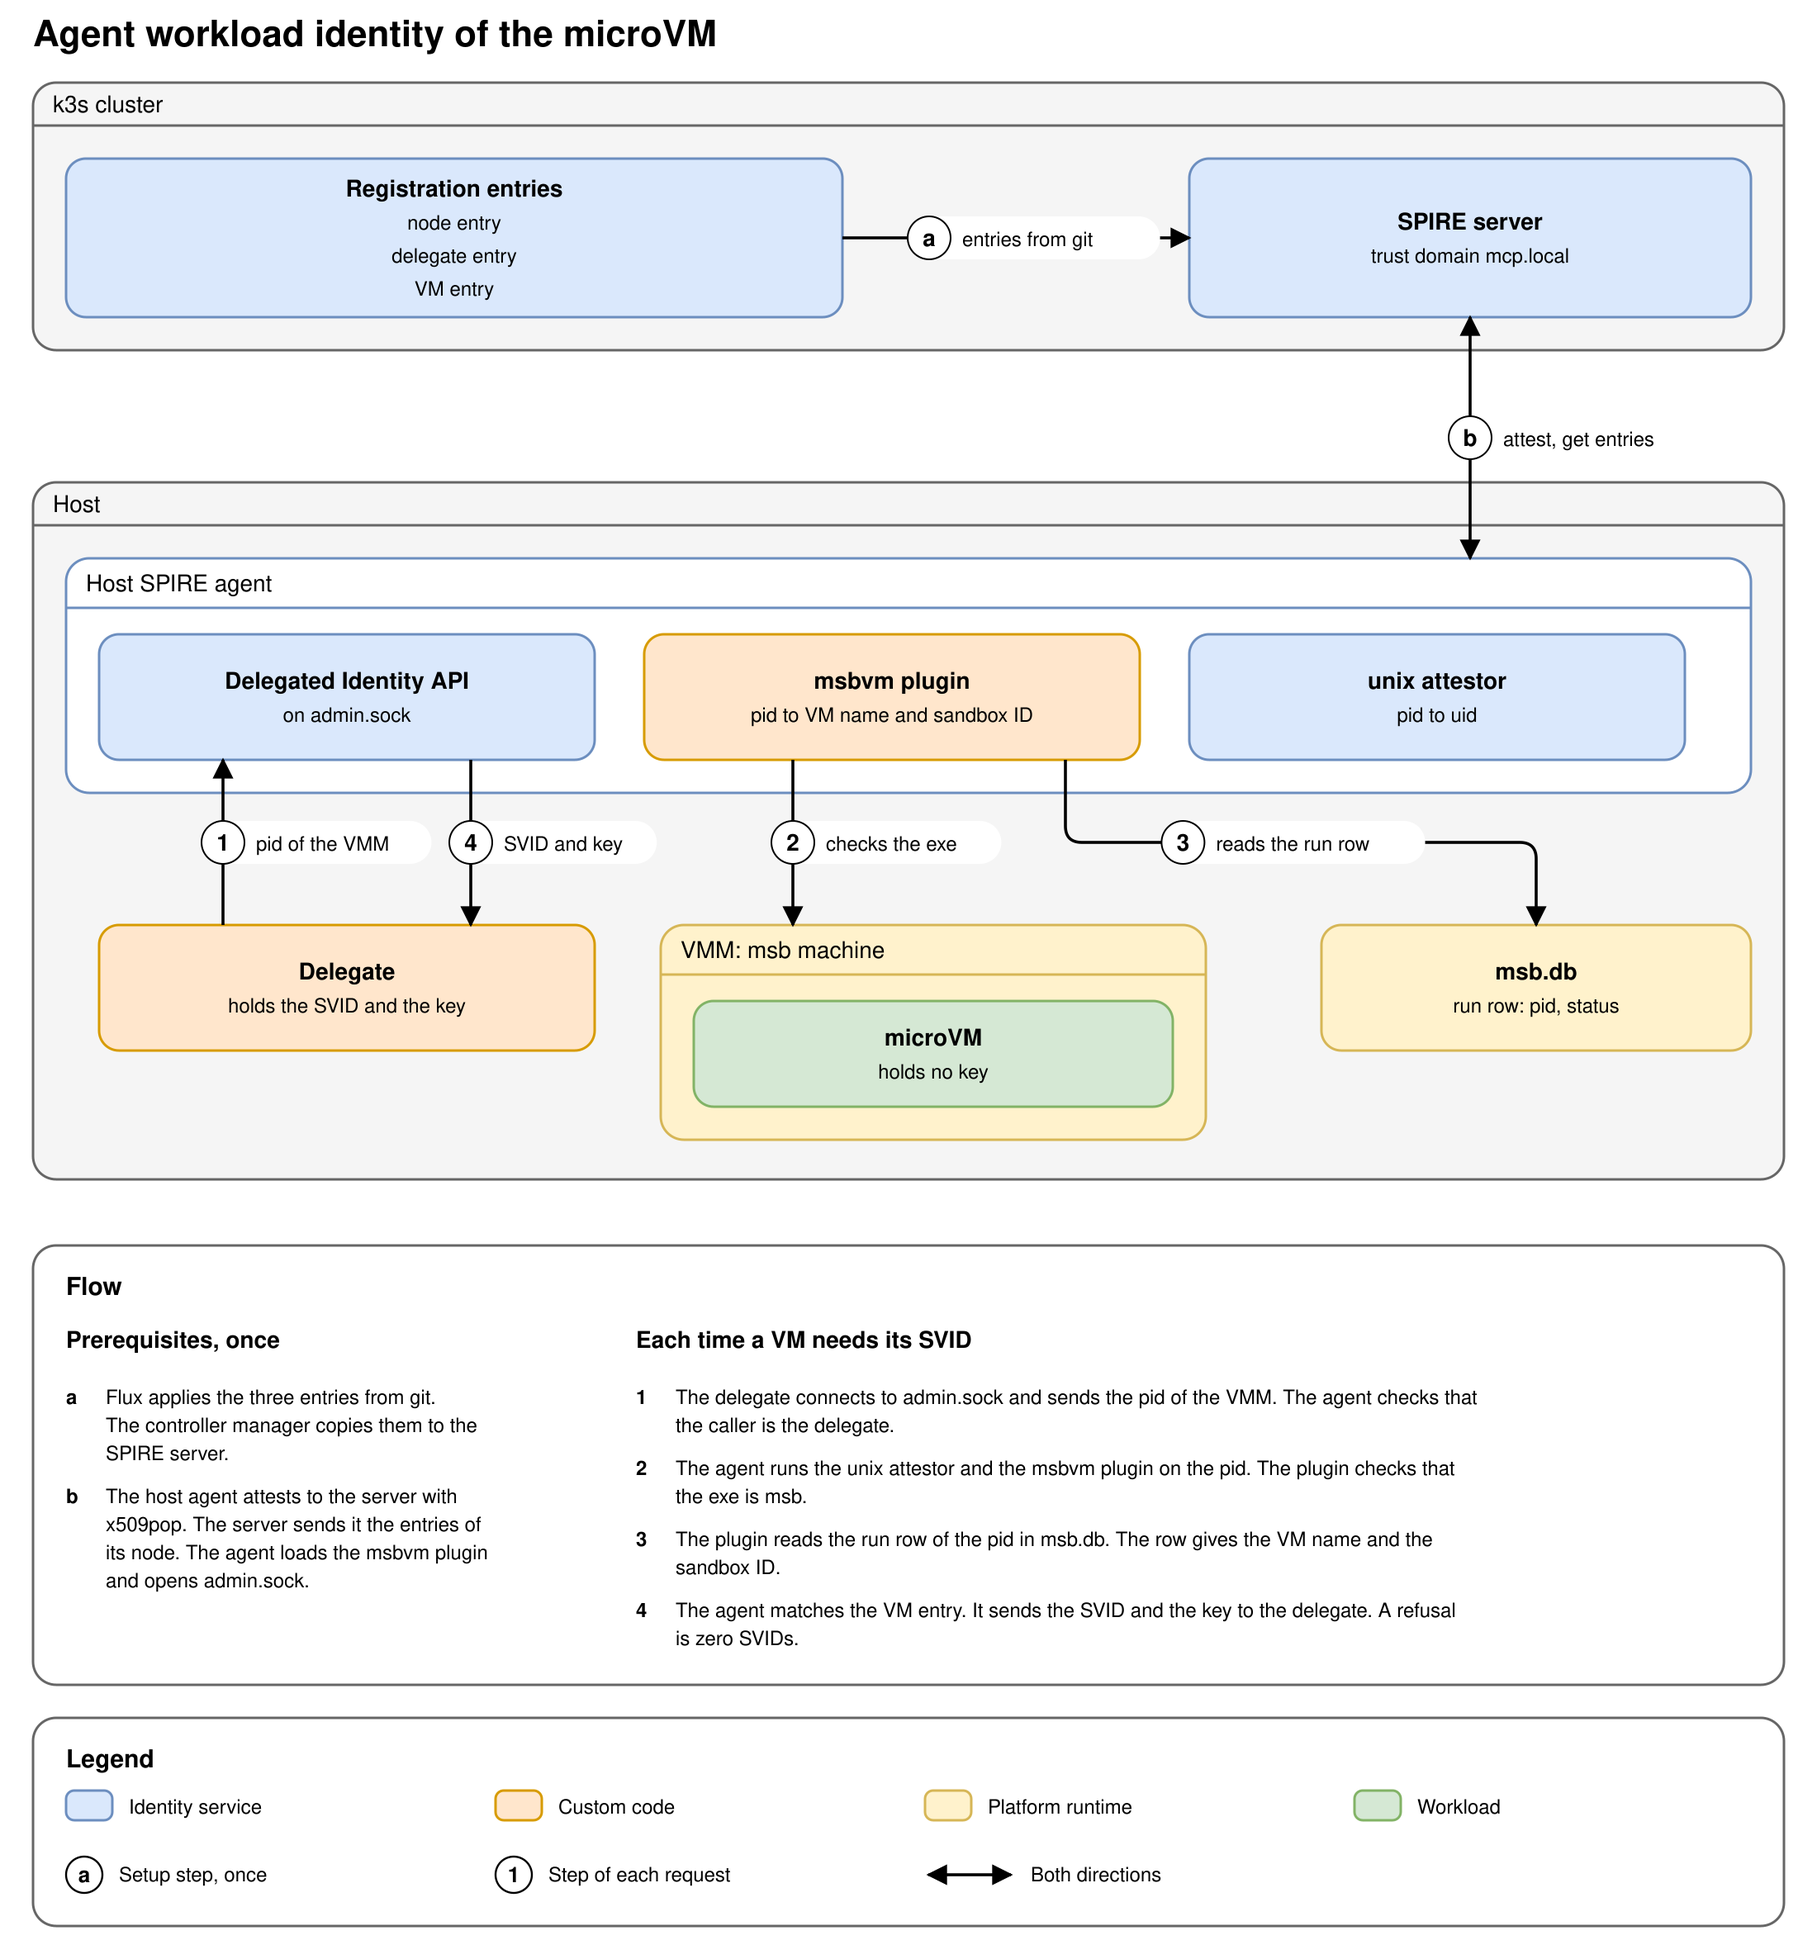
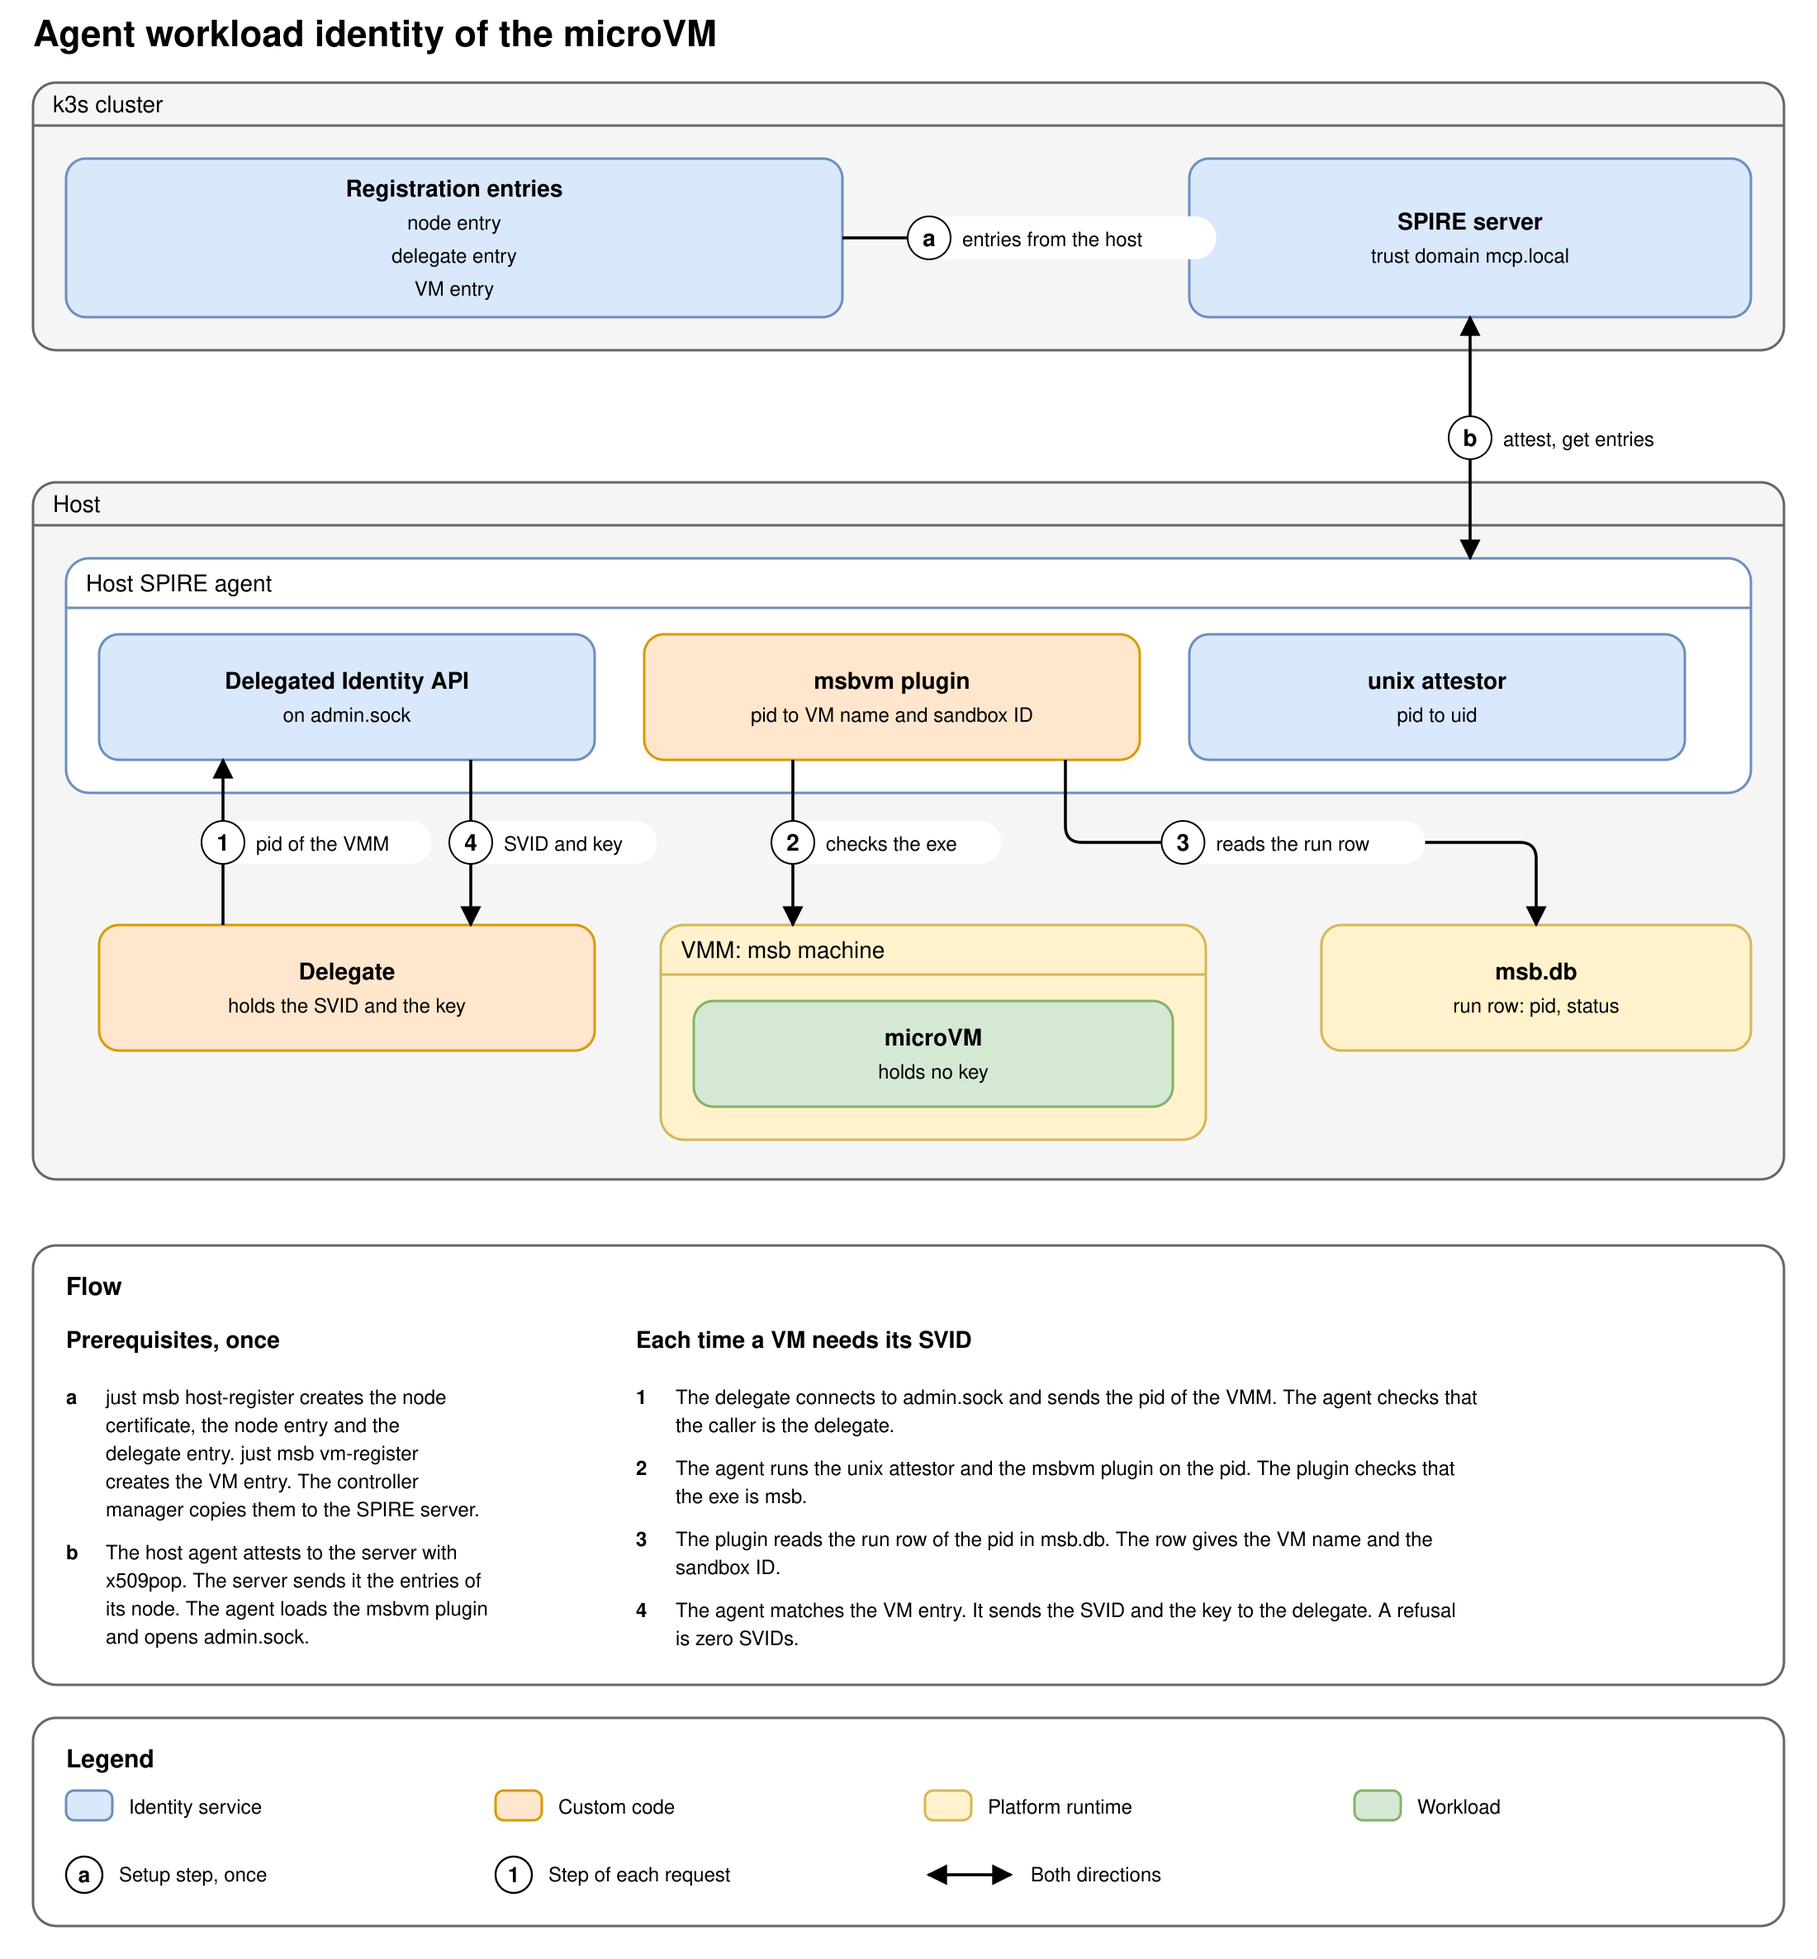
msb: register the host and the VMs under their own names
The node is the host, and its name is the host name of the machine, not the
name of a VM. just msb host-register creates the node certificate, the node
entry and the delegate entry from the host name. just msb vm-register creates
the entry of one VM from its name. The host applies the templates in
.msb/k3s/ with kubectl. Remove the static delegate and VM entries from the
spire addon. Add ADR 0002. Update the guide, the glossary, the READMEs and the
diagram.

Changed region(s): [[0.0618, 0.6863, 0.2782, 0.8423], [0.6491, 0.0936, 0.68, 0.1248]]

diff --git a/code/agent-workload-identity/docs/workload-attestation.md b/code/agent-workload-identity/docs/workload-attestation.md
@@ -4,7 +4,7 @@ This guide explains how a microVM gets its own SPIFFE ID. Read the [node attesta
 
 The lists and the diagrams are narrow on purpose. They read well in the GitHub mobile app.
 
-**Status.** The node attestation exists. The flow in this guide is a design. The spike proved it on the host with a throwaway SPIRE server. The `msbvm` plugin and the delegate are in this repo as code. The host agent config and the end-to-end test are not. [ADR 0001](adr/0001-delegated-identity-for-the-microvm.md) records the decision. This design replaces the Envoy design of [Zero trust: workload attestation](../../mcp-sandbox/part-3-mcp-guardrails/docs/zero-trust-workload-attestation.md).
+**Status.** The node attestation exists. The flow in this guide is a design. The spike proved it on the host with a throwaway SPIRE server. The `msbvm` plugin and the delegate are in this repo as code. The recipes that register the host and the VMs are in `.msb/`. The host agent config and the end-to-end test are not. [ADR 0001](adr/0001-delegated-identity-for-the-microvm.md) records the decision. This design replaces the Envoy design of [Zero trust: workload attestation](../../mcp-sandbox/part-3-mcp-guardrails/docs/zero-trust-workload-attestation.md).
 
 ## The idea
 
@@ -14,7 +14,7 @@ The lists and the diagrams are narrow on purpose. They read well in the GitHub m
 4. A plugin, `msbvm`, turns the pid into the VM name and the sandbox ID. It uses facts that `msb` records.
 5. The agent matches an entry. It gives the SVID and the key to the delegate. The VM never sees them.
 
-The ID has three parts: the node, the user and the VM. Example: `spiffe://mcp.local/node/sandbox-dev/user/raghav19/vm/<vm-name>`.
+The ID has three parts: the node, the user and the VM. The node is the host. Its name is the host name of the machine. Example: `spiffe://mcp.local/node/omarchy/user/raghav19/vm/<vm-name>`.
 
 ## The picture
 
@@ -27,9 +27,12 @@ The letters a and b are the prerequisites. They happen once. The numbers 1 to 4 
 In the cluster (k3s):
 
 - **SPIRE server.** It keeps the registration entries and issues the SVIDs. It checks the node with `x509pop`.
-- **Node entry `sandbox-node`.** It gives the attested node the ID `spiffe://mcp.local/node/sandbox-dev`. It is the parent of the other entries. It exists.
-- **Delegate entry.** It gives the delegate its own ID. It does not exist yet.
-- **VM entry.** It gives a VM its ID. Its selectors are `msbvm:name:<vm>` and `unix:uid:<uid>`. It does not exist yet.
+- **Node certificate of the host.** cert-manager makes it. The host agent attests with it. `just msb host-register` asks for it.
+- **Node entry.** It gives the attested host the ID `spiffe://mcp.local/node/<host-name>`. It is the parent of the other entries of this host. `just msb host-register` creates it.
+- **Delegate entry.** It gives the delegate its own ID. `just msb host-register` creates it.
+- **VM entry.** It gives a VM its ID. Its selectors are `msbvm:name:<vm>` and `unix:uid:<uid>`. `just msb vm-register` creates it.
+
+The agent in the VM has an older node entry, `sandbox-node`, with the ID `spiffe://mcp.local/node/sandbox-dev`. It stays until you retire that agent. See [ADR 0002](adr/0002-the-host-registers-its-entries-under-its-own-names.md).
 
 On the host:
 
@@ -48,7 +51,7 @@ The entries make a tree. The node entry is the parent of the other two. The agen
 
 ```mermaid
 flowchart TD
-    srv["SPIRE server"] -->|parent of| node["Node entry<br/>spiffe://mcp.local/node/sandbox-dev<br/>selectors: x509pop CN sandbox-dev<br/>and URI SAN github-id raghav19"]
+    srv["SPIRE server"] -->|parent of| node["Node entry<br/>spiffe://mcp.local/node/HOST-NAME<br/>selectors: x509pop CN HOST-NAME<br/>and URI SAN github-id raghav19"]
     node -->|parent of| del["Delegate entry<br/>selectors: unix uid<br/>and unix path of the delegate binary"]
     node -->|parent of| vm["VM entry<br/>ID ends with user/raghav19/vm/VM-NAME<br/>selectors: msbvm name VM-NAME<br/>and unix uid"]
     cfg["Agent config:<br/>authorized_delegates"] -->|lists the ID of| del
@@ -60,14 +63,16 @@ flowchart TD
 
 ```mermaid
 flowchart TD
-    a["Node key and certificate on the host"] --> b["Host agent attests with x509pop"]
-    b --> c["Server gives the node entry ID"]
-    d["Delegate entry and VM entry in git"] --> e["Flux applies them. The controller manager copies them to the server."]
-    c --> f["Agent gets the entries of its node and mints their SVIDs"]
+    a["just msb host-register:<br/>node certificate, node entry,<br/>delegate entry"] --> b["Node key and certificate<br/>on the host"]
+    b --> c["Host agent attests with x509pop"]
+    c --> d["Server gives the node entry ID"]
+    g["just msb vm-register:<br/>VM entry"] --> e["The controller manager copies<br/>the entries to the server"]
+    a --> e
+    d --> f["Agent gets the entries of its node<br/>and mints their SVIDs"]
     e --> f
 ```
 
-The host agent attests with `x509pop`, as the VM agent does today. Which certificate it uses is an open decision. The entries are objects in git, like the node entry. The agent mints the SVIDs of all entries of its node at start. The server is not involved when the delegate calls later.
+The host agent attests with `x509pop` and the node certificate that `host-register` made. The entries of the host and of the VMs are not in git. The host creates them with `kubectl`, from templates in `.msb/k3s/`, with the host name and the VM name. [ADR 0002](adr/0002-the-host-registers-its-entries-under-its-own-names.md) gives the reasons. The agent mints the SVIDs of all entries of its node at start. The server is not involved when the delegate calls later.
 
 The agent config loads the `msbvm` plugin with `plugin_cmd` and `plugin_checksum`. It also sets `admin_socket_path` and `authorized_delegates`. The admin socket must be in a different folder from the Workload API socket. The agent refuses to start otherwise.
 

diff --git a/code/agent-workload-identity/docs/adr/0002-the-host-registers-its-entries-under-its-own-names.md b/code/agent-workload-identity/docs/adr/0002-the-host-registers-its-entries-under-its-own-names.md
@@ -1,0 +1,30 @@
+---
+status: accepted
+---
+
+# The host registers its entries under its own names
+
+The node is the host that runs the microVMs. Its name in the SPIRE server is the host name of the machine, and not the name of a VM. The host creates its entries with `just msb host-register` and `just msb vm-register`, from templates, and not from files in git.
+
+## Decision
+
+- The node name is the host name in lower case. `MSB_NODE` in `.msb/justfile` holds it. A new host registers under its own name.
+- `just msb host-register` creates three objects: the node certificate of the host, the node entry, and the delegate entry. The node entry gives the host agent the ID `spiffe://mcp.local/node/<host-name>`.
+- `just msb vm-register` creates the entry of one VM. Its ID is `spiffe://mcp.local/node/<host-name>/user/<github-id>/vm/<vm-name>`. `just msb vm-unregister` and `just msb host-unregister` remove the objects.
+- The host applies the templates in `.msb/k3s/` with `kubectl`. Flux does not apply them. The spire-controller-manager copies the `ClusterStaticEntry` objects into the server.
+- The host agent has its own node certificate and its own node entry. The agent in the VM keeps its older certificate and its older node entry `sandbox-node`. The two agents do not share an ID.
+- The recipes accept only names with 1 to 40 characters: lower case letters, digits and `-`. The names go into Kubernetes names and into a SPIFFE path.
+
+## Considered options
+
+- **Entries in git, with the names written out.** This is simple for one host and one VM. A SPIFFE ID in an entry is a fixed string, and a selector has one exact value. So each new VM or host needs a change in git and a new published artifact. The entries would also carry the name of a VM before the VM exists.
+- **One entry for all VMs of a user, with no VM name.** The gateway could not tell the VMs apart. This loses the identity of each VM.
+- **The node entry with the VM name `sandbox-dev`.** This was the first design, from the time when the microVM itself was the node. The host is the node now. A node that has the name of a VM is confusing.
+
+## Consequences
+
+- The objects are outside the inventory of Flux. Flux does not prune them, and it does not show a difference if someone edits them. Remove them with the unregister recipes.
+- Only a person who has the kubeconfig of the host can register an identity. The VM has a read-only token, so a VM cannot register an identity for itself.
+- A new host name is a new node. If you rename the host, run `host-register` again. The old node entry stays until you run `host-unregister` under the old name.
+- `host-register` changes the cluster. Run it on purpose.
+- The part 3 guides about the node attestation describe the agent in the VM, with the node `sandbox-dev`. They stay true for that agent until you retire it.

diff --git a/code/agent-workload-identity/CONTEXT.md b/code/agent-workload-identity/CONTEXT.md
@@ -5,11 +5,11 @@ How an agent microVM gets its own SPIFFE ID while its private key stays on the h
 ## Language
 
 **Node**:
-The host that runs the microVM. The SPIRE server knows it through its node certificate.
+The host that runs the microVMs. Its name in the SPIRE server is the host name of the machine. The SPIRE server knows it through its node certificate.
 _Avoid_: machine, box
 
 **Node entry**:
-A registration entry that gives an attested node a fixed SPIFFE ID, for example `spiffe://mcp.local/node/sandbox-dev`. It is a record in the SPIRE server and is in no certificate.
+A registration entry that gives an attested node a fixed SPIFFE ID, for example `spiffe://mcp.local/node/omarchy`. It is a record in the SPIRE server and is in no certificate.
 _Avoid_: alias
 
 **microVM**:
@@ -25,5 +25,5 @@ A host program that the SPIRE agent trusts to ask for the SVID of a microVM. The
 _Avoid_: proxy, forwarder, launcher
 
 **Agent workload identity**:
-The SPIFFE ID of one agent microVM. It names the node, the user and the VM: `spiffe://mcp.local/node/sandbox-dev/user/raghav19/vm/<vm-name>`.
+The SPIFFE ID of one agent microVM. It names the node, the user and the VM: `spiffe://mcp.local/node/omarchy/user/raghav19/vm/<vm-name>`.
 _Avoid_: microVM identity, agent identity (Google uses it for a different identity), VM ID (the sandbox ID of `msb` is a different value)

diff --git a/code/agent-workload-identity/delegate/README.md b/code/agent-workload-identity/delegate/README.md
@@ -35,7 +35,7 @@ The command never prints, logs or writes the private key. The type `svid` also h
 Example output:
 
 ```text
-spiffe_id=spiffe://mcp.local/node/sandbox-dev/user/raghav19/vm/sandbox-dev
+spiffe_id=spiffe://mcp.local/node/omarchy/user/raghav19/vm/sandbox-dev
 not_after=2026-11-07T12:00:00Z
 ```
 
@@ -44,7 +44,7 @@ not_after=2026-11-07T12:00:00Z
 ```text
 cd code/agent-workload-identity/delegate
 go build -o delegate .
-./delegate -vm sandbox-dev -id spiffe://mcp.local/node/sandbox-dev/user/raghav19/vm/sandbox-dev -socket <admin-socket>
+./delegate -vm sandbox-dev -id spiffe://mcp.local/node/omarchy/user/raghav19/vm/sandbox-dev -socket <admin-socket>
 ```
 
 ## Tests

diff --git a/code/agent-workload-identity/docs/adr/0001-delegated-identity-for-the-microvm.md b/code/agent-workload-identity/docs/adr/0001-delegated-identity-for-the-microvm.md
@@ -36,7 +36,7 @@ The microVM is the workload. Its SPIFFE ID must come from facts about the VM, an
 ## Not decided here
 
 - The language of the delegate, and how it finds the pid of the VMM.
-- The node certificate of the host agent, and the fate of the agent in the VM.
+- The fate of the agent in the VM. [ADR 0002](0002-the-host-registers-its-entries-under-its-own-names.md) decides the node certificate of the host agent.
 - What starts the delegate.
 - Whether the delegate needs its own SVID.
 

diff --git a/code/agent-workload-identity/README.md b/code/agent-workload-identity/README.md
@@ -9,7 +9,7 @@ Each agent microVM gets its own SPIFFE ID. The private key stays on the host, ou
 - A delegate on the host holds the SVID and the key for the VM.
 - The gateway reads the SPIFFE ID and checks the node, the user and the VM.
 
-The ID has three parts: `spiffe://mcp.local/node/sandbox-dev/user/<user>/vm/<vm-name>`.
+The ID has three parts: `spiffe://mcp.local/node/<host-name>/user/<user>/vm/<vm-name>`. The node is the host, and not a VM.
 
 ## Status
 
